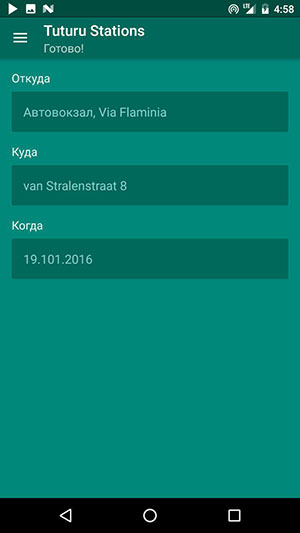
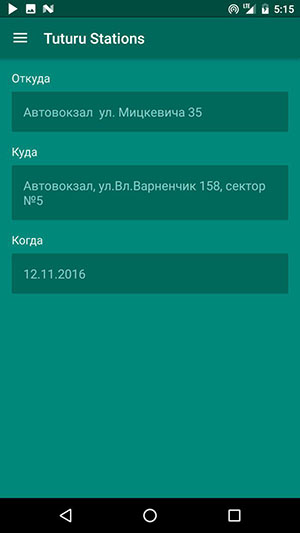
hotfix

diff --git a/app/src/main/java/pomis/app/tuturustations/fragments/TableFragment.java b/app/src/main/java/pomis/app/tuturustations/fragments/TableFragment.java
@@ -107,7 +107,7 @@ public class TableFragment extends Fragment {
                 selectedDay = dayOfMonth;
                 selectedMonth = monthOfYear;
                 selectedYear = year;
-                tvWhen.setText(dayOfMonth + "." + monthOfYear + 1 + "." + year);
+                tvWhen.setText(dayOfMonth + "." + (monthOfYear + 1) + "." + year);
             }
         }, selectedYear, selectedMonth, selectedDay);
         tpd.show();

diff --git a/README.md b/README.md
@@ -2,7 +2,7 @@
 Тестовое задание для вакансии младшего Android-разработчика.
 
 ####Скриншоты:
-![6](screenshots/6.png)
+![6](screenshots/6.png?raw=tru)
 ![5](screenshots/5.png)
 ![4](screenshots/4.png)
 ![3](screenshots/3.png)
